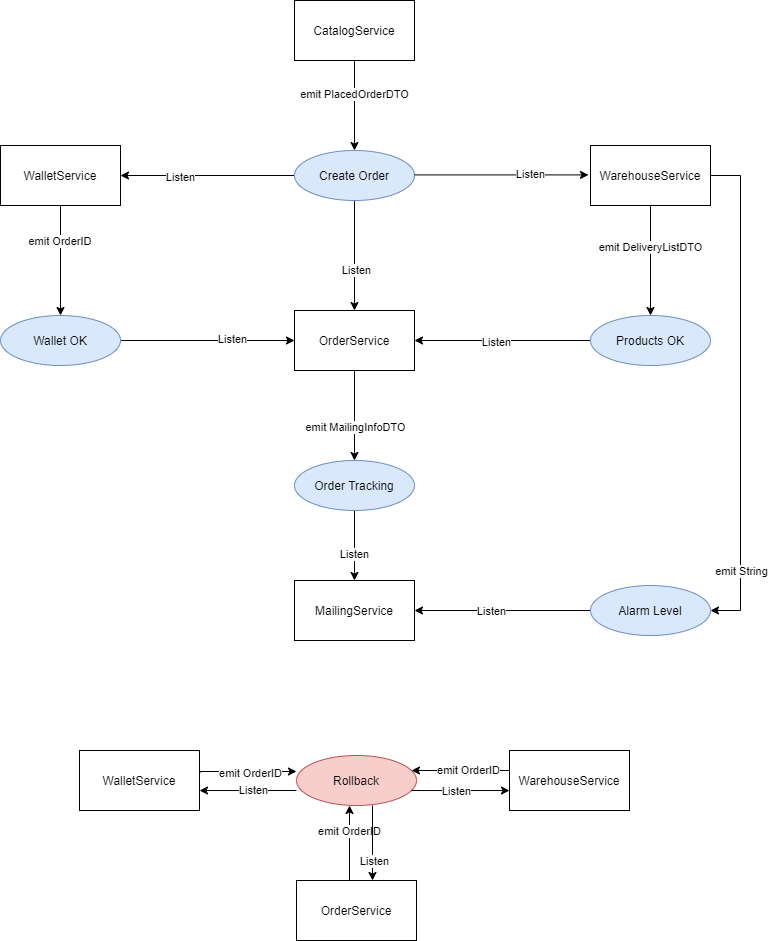
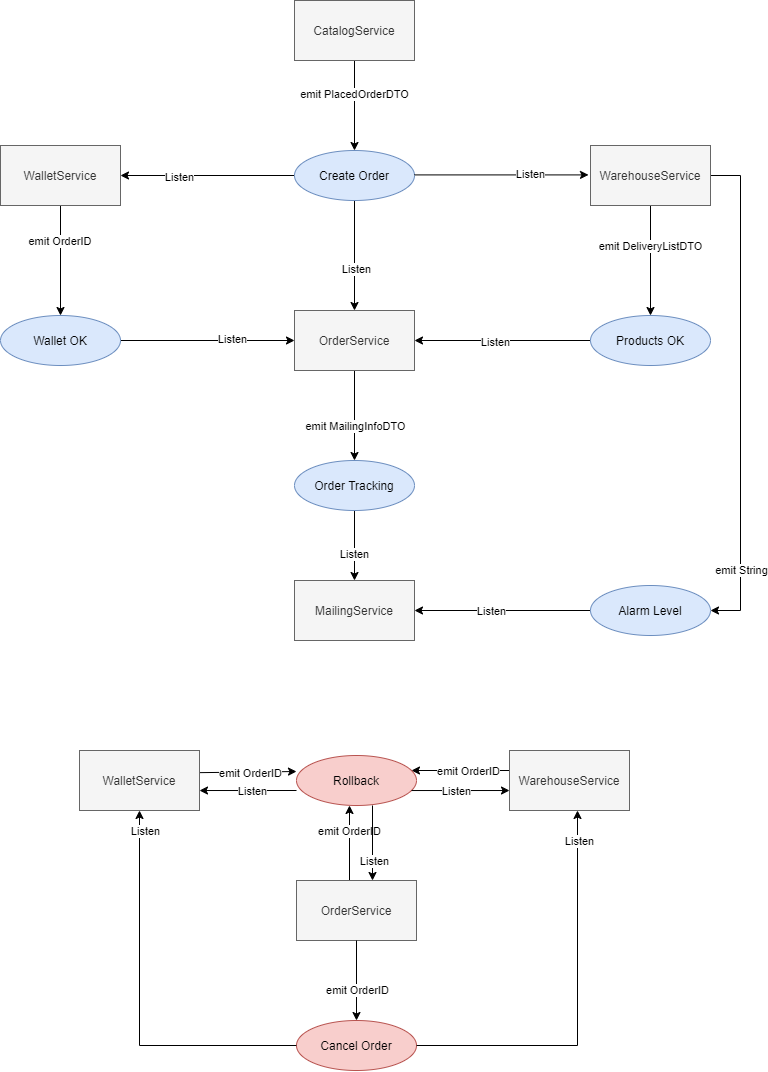
Readme update and comments added

diff --git a/orderservice/src/main/kotlin/it/polito/master/ap/group6/ecommerce/orderservice/services/OrderServiceAsync.kt b/orderservice/src/main/kotlin/it/polito/master/ap/group6/ecommerce/orderservice/services/OrderServiceAsync.kt
@@ -27,7 +27,6 @@ import org.springframework.beans.factory.annotation.Autowired
 import org.springframework.kafka.core.KafkaTemplate
 import org.springframework.stereotype.Service
 import org.springframework.transaction.annotation.Transactional
-import java.util.*
 
 interface OrderServiceAsync {
     fun createOrder(placedOrder: PlacedOrderDTO): Response
@@ -59,21 +58,21 @@ class OrderServiceAsyncImpl(
 
     override fun createOrder(placedOrder: PlacedOrderDTO): Response {
         //STEP 1: check if pending is already logged
-        val orderLoggerOptional =
-            orderLoggerRepository.findByOrderIDAndOrderStatus(placedOrder.sagaID.toString(), OrderLoggerStatus.PENDING)
+        val orderLoggerOptional = orderLoggerRepository.findByOrderIDAndOrderStatus(
+            placedOrder.sagaID.toString(),
+            OrderLoggerStatus.PENDING
+        )
         if (orderLoggerOptional.isPresent) {
             println("OrderServiceAsync.createOrder: skipped duplicate order ${placedOrder.sagaID.toString()}")
             return Response.invalidOrder()
         }
-
-        val orderLoggerOptionalFailed =
-            orderLoggerRepository.findByOrderIDAndOrderStatus(placedOrder.sagaID.toString(), OrderLoggerStatus.FAILED)
-        if (orderLoggerOptionalFailed.isPresent) {
+        //check if the order is already failed (it happens when product ok or wallet ok comes first and then the order is rollbacked)
+        if (checkRollbackCondition(placedOrder.sagaID.toString())) {
             println("OrderServiceAsync.createOrder: skipped duplicate order ${placedOrder.sagaID.toString()}")
             return Response.invalidOrder()
         }
 
-        //STEP 2: log the created order
+        //STEP 2: log the created order and save it into the DB with pending status
         val order: Order = placedOrder.toModel()
         order.status = OrderStatus.PENDING
         orderRepository.save(order)
@@ -123,7 +122,10 @@ class OrderServiceAsyncImpl(
         val creationTimer = GlobalScope.launch {
             delay(10_000L)
             val orderLoggerOptional =
-                orderLoggerRepository.findByOrderIDAndOrderStatus(deliveryList.orderID.toString(), OrderLoggerStatus.PENDING)
+                orderLoggerRepository.findByOrderIDAndOrderStatus(
+                    deliveryList.orderID.toString(),
+                    OrderLoggerStatus.PENDING
+                )
             if (orderLoggerOptional.isEmpty) {
                 println("OrderServiceAsync.productsChecked.creationTimer: Timer expired. The order is failed and a rollback is requested.")
                 kafkaTemplate.send(
@@ -186,16 +188,18 @@ class OrderServiceAsyncImpl(
     }
 
     override fun cancelOrder(orderId: ObjectId): Response {
-        //update log for the order
+        //check if is already failed or canceled
         if (checkRollbackCondition(orderId.toString())) {
             return Response.invalidOrder()
         }
 
+        //check if it is an existing order
         val orderOptional = orderRepository.findById(orderId)
         if (orderOptional.isEmpty) {
             println("OrderServiceAsync.cancelOrder: The order $orderId cannot be found.")
             return Response.orderCannotBeFound()
         }
+        //check if can be canceled (i.e. is in PAID status)
         val order = orderOptional.get()
         if (order.status == OrderStatus.PAID) {
             //update the order
@@ -217,10 +221,16 @@ class OrderServiceAsyncImpl(
         return res
     }
 
+    /**
+     * Performs the rollback of an order updating both the logger and the db.
+     * @return Response.invalidOrder() if the order cannot be rollbacked (it is a duplicate), Response.orderRollback() otherwise.
+     */
     override fun rollbackOrder(orderId: String): Response {
+        //skip duplicate rollback requests
         if (checkRollbackCondition(orderId)) {
             return Response.invalidOrder()
         }
+        //fail the order in the logger and in the db
         orderLoggerRepository.save(OrderLogger(orderId, OrderLoggerStatus.FAILED))
         val orderOptional = orderRepository.findById(ObjectId(orderId))
         if (orderOptional.isEmpty) {
@@ -233,6 +243,9 @@ class OrderServiceAsyncImpl(
         return Response.orderRollback()
     }
 
+    /**
+     * Publish on topic order_tracking to inform MailingService to send an email to a customer.
+     */
     override fun sendEmail(orderId: String, message: String) {
         val orderOptional = orderRepository.findById(ObjectId(orderId))
         if (orderOptional.isEmpty) {
@@ -246,6 +259,9 @@ class OrderServiceAsyncImpl(
         )
     }
 
+    /**
+     * @return true if the order can be set as PAID, false otherwise.
+     */
     fun checkConditions(orderID: String): Boolean {
         val orderLoggerListOptional = orderLoggerRepository.findByOrderID(orderID)
         if (orderLoggerListOptional.isEmpty) {
@@ -261,6 +277,9 @@ class OrderServiceAsyncImpl(
         return false
     }
 
+    /**
+     * @return true if the order has already been rollbacked, false otherwise.
+     */
     fun checkRollbackCondition(orderID: String): Boolean {
         val orderLoggerListOptional = orderLoggerRepository.findByOrderID(orderID)
         if (orderLoggerListOptional.isEmpty) {

diff --git a/mailingservice/src/main/kotlin/it/polito/master/ap/group6/ecommerce/mailingservice/listeners/MailListener.kt b/mailingservice/src/main/kotlin/it/polito/master/ap/group6/ecommerce/mailingservice/listeners/MailListener.kt
@@ -38,11 +38,11 @@ class MailListener(
         try {
             mailingLog = logRepository.getOrderInfoMailingLogByOrderIDAndStatus(mailingInfoDTO.orderId!!, orderStatus = mailingInfoDTO.orderStatus!!)
             if (!mailingLog.isEmpty) {
-                println("ERROR: Order info mail already sent for this orderID.")
+                println("MailListener.sendInfoMail: Order info mail already sent for this orderID.")
                 return
             }
         } catch (e: Exception) {
-            println("sendInfoMail Exception: $e")
+            println("MailListener.sendInfoMail: ${e.cause}. Impossible to send the email.")
             return
         }
 
@@ -59,7 +59,7 @@ class MailListener(
         try {
             emailAddr.validate()
         } catch (e: AddressException) {
-            println("MailListener.sendMail: the email ${user.email} is invalid")
+            println("MailListener.sendInfoMail: the email ${user.email} is invalid")
             return
         }
         //send email
@@ -80,12 +80,12 @@ class MailListener(
             email.setMsg(textMessage)
             email.addTo(emailAddr.toString())
             email.send()
-            println("sendInfoMail : mail sent.")
+            println("MailListener.sendInfoMail: Mail sent.")
             val mailingLog = MailingLog(orderID = mailingInfoDTO.orderId, type = MailType.ORDERINFO, status = mailingInfoDTO.orderStatus)
             logRepository.save(mailingLog)
-            println("sendInfoMail : log saved.")
+            println("MailListener.sendInfoMail: Log saved.")
         } catch (e: Exception) {
-            println("MailListener.sendMail: {${e.cause}. Impossible to send the email.")
+            println("MailListener.sendInfoMail: ${e.cause}. Impossible to send the email.")
         }
     }
 
@@ -98,7 +98,7 @@ class MailListener(
         try {
             mailingLog = logRepository.getAlarmInfoMailingLogByOrderID(mailingInfoDTO.orderId!!, mailingInfoDTO.productID!!, mailingInfoDTO.warehouse!!)
             if (!mailingLog.isEmpty) {
-                println("ERROR: Alarm Level mail already sent for this orderID.")
+                println("MailListener.sendAlarmMail: Alarm Level mail already sent for this orderID.")
                 return
             }
         } catch (e: Exception) {
@@ -110,7 +110,7 @@ class MailListener(
 
         val optionalAdmins = mailingRepository.findUserDTOByRole("ADMIN")
         if (optionalAdmins.isEmpty) {
-            println("MailListener.sendMail: there aren't admins in the database.")
+            println("MailListener.sendAlarmMail: there aren't admins in the database.")
             return
         }
         val admins = optionalAdmins.get()
@@ -143,12 +143,12 @@ class MailListener(
                 }
             }
             email.send()
-            println("sendAlarmMail : mail sent.")
+            println("MailListener.sendAlarmMail: Mail sent.")
             val mailingLog = MailingLog(orderID = mailingInfoDTO.orderId, type = MailType.ALARMINFO, productID = mailingInfoDTO.productID, warehouse = mailingInfoDTO.warehouse)
             logRepository.save(mailingLog)
-            println("sendAlarmMail : log saved.")
+            println("sMailListener.sendAlarmMail: Log saved.")
         } catch (e: Exception) {
-            println("MailListener.sendMail: {${e.cause}. Impossible to send the email.")
+            println("MailListener.sendAlarmMail:: ${e.cause}. Impossible to send the email.")
         }
     }
 }

diff --git a/orderservice/src/main/kotlin/it/polito/master/ap/group6/ecommerce/orderservice/listeners/OrderSagaListener.kt b/orderservice/src/main/kotlin/it/polito/master/ap/group6/ecommerce/orderservice/listeners/OrderSagaListener.kt
@@ -38,9 +38,6 @@ class OrderSagaListener(
             ResponseType.INVALID_ORDER -> {
                 println("OrderSagaListener.createOrder: skipping duplicated saga ID ${placedOrder.sagaID.toString()}")
             }
-//            ResponseType.ORDER_CONFIRMED -> {
-//                println("${Date()} OrderSaga.createOrder: The order ${placedOrder.sagaID} has been confirmed and is in PAID status.")
-//            }
             ResponseType.WAITING -> {
                 println("OrderSaga.createOrder: Waiting for other MS to respond for order ${placedOrder.sagaID}.")
             }
@@ -57,9 +54,6 @@ class OrderSagaListener(
             ResponseType.INVALID_ORDER -> {
                 println("OrderSagaListener.productsChecked: skipping duplicated saga ID ${deliveryList.orderID}")
             }
-//            ResponseType.ORDER_CONFIRMED -> {
-//                println("${Date()} OrderSaga.productsChecked: The order ${deliveryList.orderID} has been confirmed and is in PAID status.")
-//            }
             ResponseType.WAITING -> {
                 println("OrderSaga.productsChecked: Waiting for other MS to respond for order ${deliveryList.orderID}.")
             }
@@ -75,9 +69,6 @@ class OrderSagaListener(
             ResponseType.INVALID_ORDER -> {
                 println("OrderSagaListener.walletChecked: skipping duplicated saga ID ${orderId}")
             }
-//            ResponseType.ORDER_CONFIRMED -> {
-//                println("${Date()} OrderSaga.walletChecked: The order ${orderId} has been confirmed and is in PAID status.")
-//            }
             ResponseType.WAITING -> {
                 println("OrderSaga.walletChecked: Waiting for other MS to respond for order ${orderId}.")
             }
